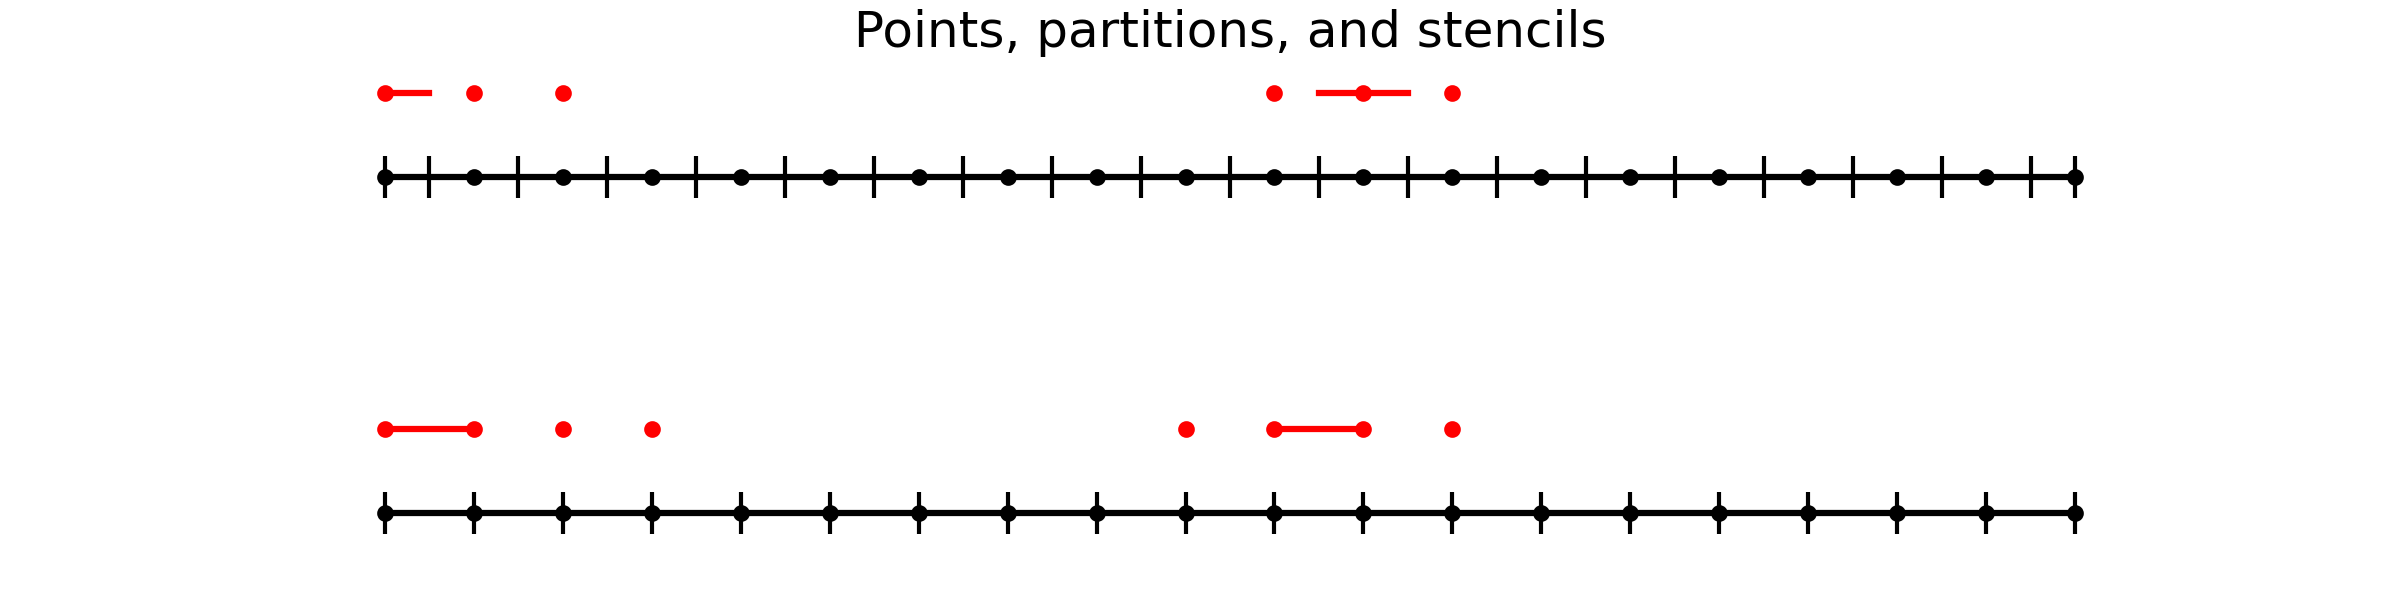
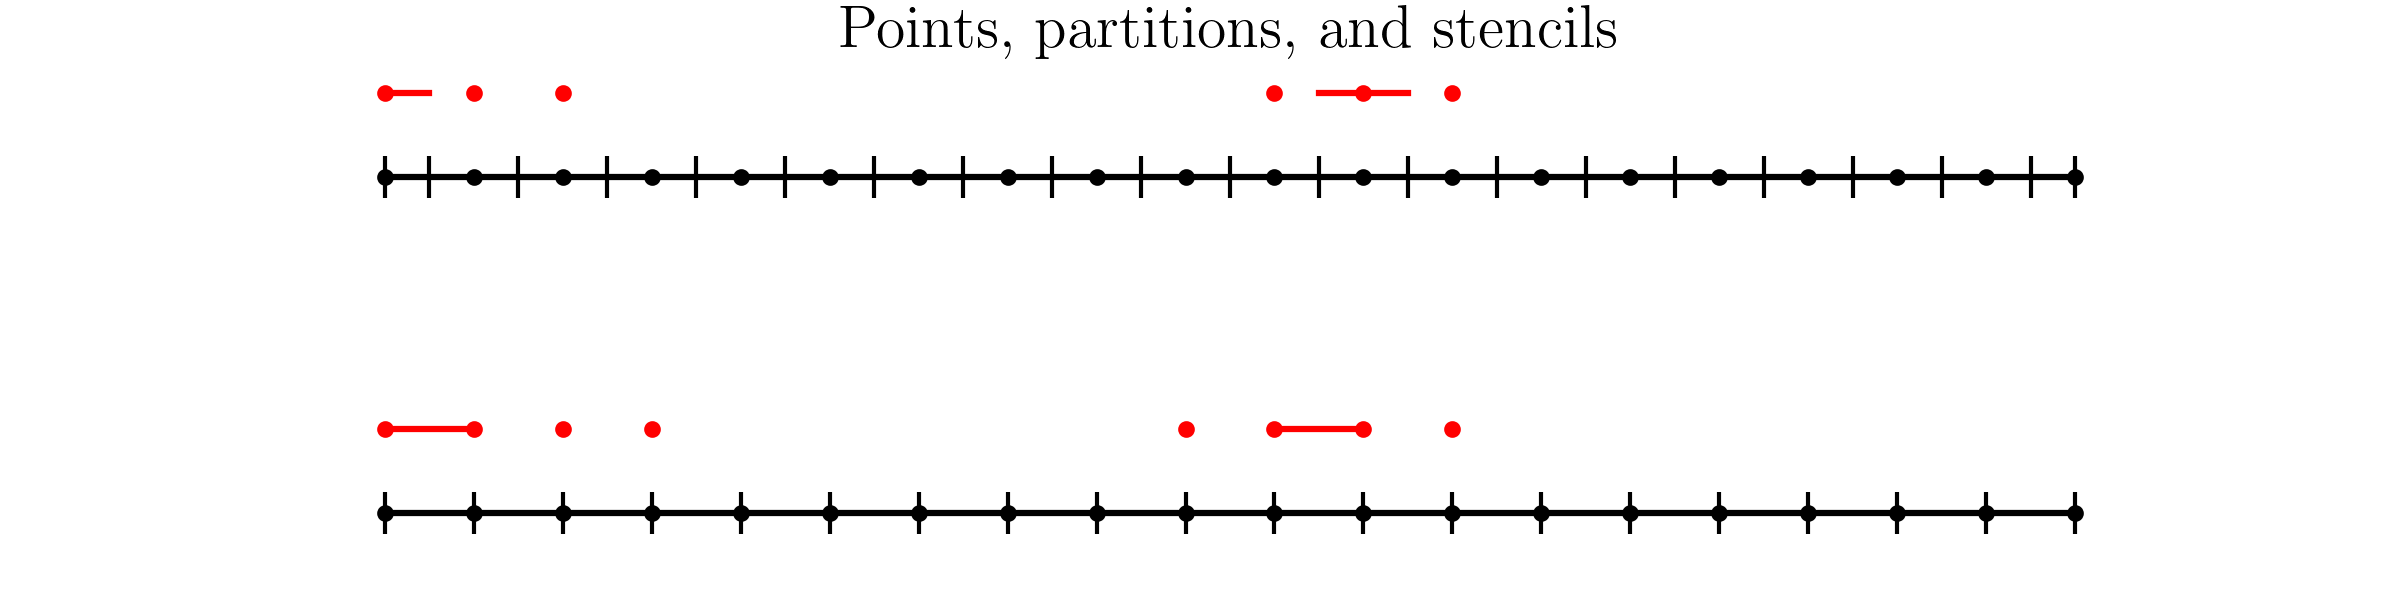
cleaned up figures for thesis

Changed region(s): [[0.3438, 0.0, 0.6875, 0.09]]

diff --git a/drivers/convergence.py b/drivers/convergence.py
@@ -1,51 +1,84 @@
 from ..localPP import quadrature_weights
 from itertools import product
+import matplotlib.gridspec as gs
 import matplotlib.pyplot as plt
 import numpy as np
 import sympy as sym
 from tqdm import tqdm
 
+# generate errors
+interval = (-1, 1)
+Ns = [1 + 2**i for i in range(5, 10)]
+hs = [(interval[-1] - interval[0]) / (N - 1) for N in Ns]
+# stencil_sizes = [2, 4, 6]
+stencil_sizes = list(range(2, 7))
 x_sym = sym.symbols("x")
 
-interval = (-1, 1)
-# f_sym = sym.exp(x_sym)
-# f_sym = 1 / (1 + (5 * x_sym) ** 2)
-f_sym = sym.cos(x_sym) * sym.Abs(x_sym - sym.Rational(1, 3))
-# f_sym = (x_sym-.5)**5 + 1
+test_functions = [
+    ("exp", sym.exp(x_sym)),
+    ("runge", 1 / (1 + (5 * x_sym) ** 2)),
+    ("abs", sym.cos(x_sym) * sym.Abs(x_sym - sym.Rational(1, 3))),
+    ("poly", (x_sym - 0.5) ** 5 + 1),
+]
 
-Ns = [1 + 2**i for i in range(3, 10)]
-hs = [(interval[-1] - interval[0]) / (N - 1) for N in Ns]
-stencil_sizes = [2, 4, 6]
-
-
-foo = sym.lambdify(x_sym, f_sym)
-exact = float(sym.integrate(f_sym, (x_sym, *interval)).evalf())
 
 error_dict = {}
-
 for stencil_size, N in tqdm(list(product(stencil_sizes, Ns))):
     xs = np.linspace(*interval, N)
     weights = quadrature_weights(xs, stencil_size=stencil_size)
-    approx = weights @ foo(xs)
-    E = abs((exact - approx) / exact)
-    error_dict[(stencil_size, N)] = E
+    for desc, f_sym in test_functions:
+        foo = sym.lambdify(x_sym, f_sym)
+        exact = float(sym.integrate(f_sym, (x_sym, *interval)).evalf())
+        approx = weights @ foo(xs)
+        error = abs((exact - approx) / exact)
+        error_dict[(desc, stencil_size, N)] = error
 
 
-plt.figure(f"Convergence for f(x)={f_sym}")
-for k in stencil_sizes:
-    errors = [error_dict[(k, N)] for N in Ns]
-    order = np.round(
-        np.log(errors[-2] / errors[-1]) / np.log(hs[-2] / hs[-1]),
-        2,
-    )
-    plt.loglog(hs, errors, ".-", label=f"{k=}~$\mathcal{{O}}(h^{{{order}}})$", base=2)
+# make figure
+plt.rcParams.update(
+    {
+        "font.size": 12,
+        "text.usetex": True,
+        "mathtext.fontset": "stix",
+        "font.family": "STIXGeneral",
+    }
+)
 
-plt.legend()
-plt.title(f"Convergence for f(x)={f_sym}")
-plt.xticks(hs, [f"$2^{{{np.log2(h)}}}$" for h in hs])
-plt.xlabel("$h$")
-plt.ylabel("Relative Error")
-plt.grid()
+figsize = (8, 8)
+fig = plt.figure("Convergence Plots", figsize=figsize)
+grid = gs.GridSpec(2, 2)
+ax_exp = fig.add_subplot(grid[0, 0])
+ax_runge = fig.add_subplot(grid[1, 0], sharex=ax_exp, sharey=ax_exp)
+ax_abs = fig.add_subplot(grid[0, 1], sharex=ax_exp, sharey=ax_exp)
+ax_poly = fig.add_subplot(grid[1, 1], sharex=ax_exp, sharey=ax_exp)
+ax_dict = {
+    "exp": ax_exp,
+    "runge": ax_runge,
+    "abs": ax_abs,
+    "poly": ax_poly,
+}
+
+for desc, f_sym in test_functions:
+    ax = ax_dict[desc]
+    for k in stencil_sizes:
+        errors = [error_dict[(desc, k, N)] for N in Ns]
+        order = np.round(
+            np.log(errors[-2] / errors[-1]) / np.log(hs[-2] / hs[-1]),
+            2,
+        )
+        ax.loglog(
+            hs, errors, ".-", label=f"{k=}~$\\mathcal{{O}}(h^{{{order}}})$", base=2
+        )
+
+    ax.legend()
+    ax.set_title(f"$f(x)={sym.latex(f_sym)}$")
+    ax.grid()
+
+for ax in [ax_poly, ax_runge]:
+    ax.set_xlabel("$h$")
+    ax.set_xticks(hs, [f"$2^{{{np.log2(h)}}}$" for h in hs])
+for ax in [ax_exp, ax_runge]:
+    ax.set_ylabel("Relative Erorr")
 plt.tight_layout()
 
-plt.savefig("images/convergence.png")
+plt.savefig("images/convergence.png", dpi=300)

diff --git a/stencil.py b/stencil.py
@@ -1,6 +1,15 @@
 import numpy as np
 import matplotlib.pyplot as plt
 
+plt.rcParams.update(
+    {
+        "font.size": 12,
+        "text.usetex": True,
+        "mathtext.fontset": "stix",
+        "font.family": "STIXGeneral",
+    }
+)
+
 xs = np.arange(20)
 
 line1 = 0
